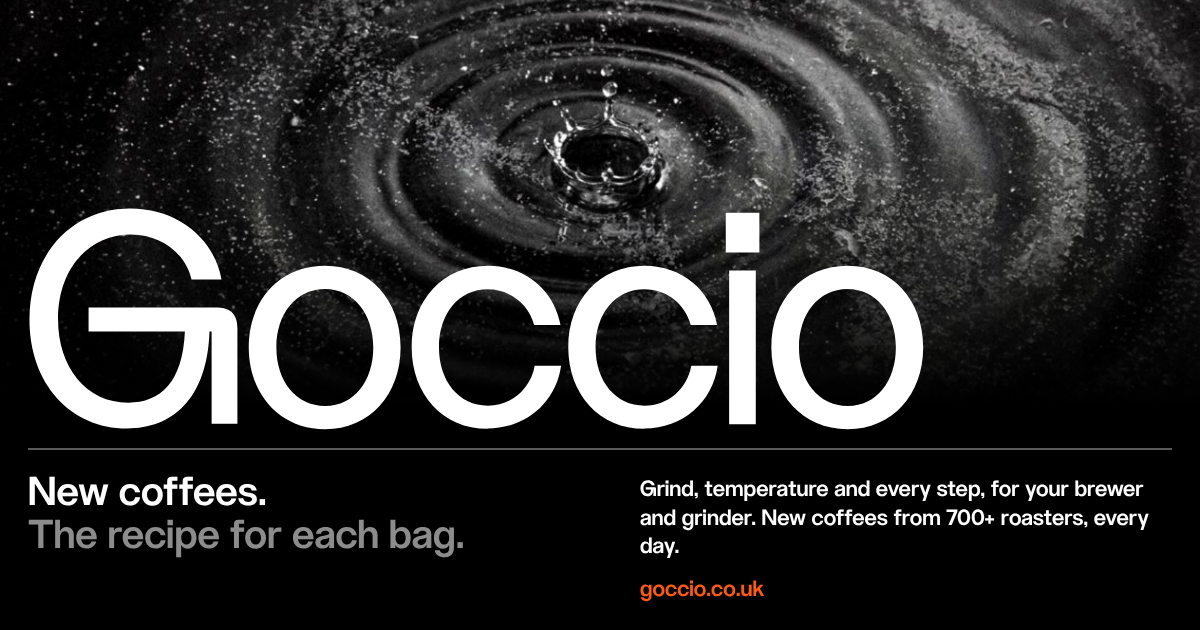
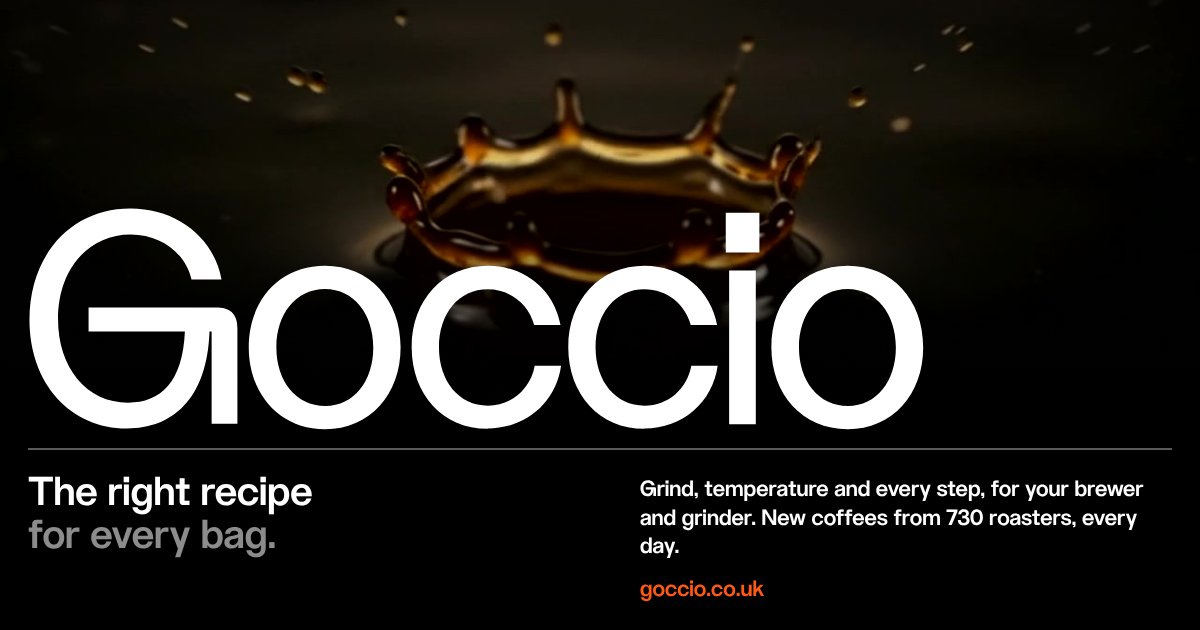
Share card and titles carry the new line (#1024)

diff --git a/design/og-card.html b/design/og-card.html
@@ -1,10 +1,10 @@
 <!DOCTYPE html><html><head><meta charset="utf-8"><style>
-/* the picture a link to Goccio shows when shared: render at 1200 x 630 into og/card-6.png (copied to og/card.png and og/card-5.png for older links) */
+/* the picture a link to Goccio shows when shared: render at 1200 x 630 into og/card-7.png (copied to og/card.png, og/card-5.png and og/card-6.png for older links) */
 @font-face{font-family:"ALT Riviera";src:url("../fonts/alt-medium.woff2") format("woff2");font-weight:100 900}
 @font-face{font-family:"ALT Riviera Regular";src:url("../fonts/alt-regular.woff2") format("woff2")}
 *{margin:0;box-sizing:border-box}
 body{width:1200px;height:630px;background:#000;color:#fff;font-family:"ALT Riviera",Helvetica,Arial,sans-serif;font-weight:500;position:relative;overflow:hidden}
-.ph{position:absolute;inset:0 0 auto 0;height:405px;background:url("../img/goccio-swirl.jpg") center 58%/cover no-repeat}
+.ph{position:absolute;inset:0 0 auto 0;height:405px;background:url("../img/goccio-crown.jpg") center 30%/cover no-repeat}
 .ph::after{content:"";position:absolute;inset:0;background:linear-gradient(to bottom,rgba(0,0,0,0) 45%,#000 100%)}
 .wm{position:absolute;left:22px;right:22px;top:198px;font-family:"ALT Riviera Regular";font-size:300px;line-height:.8;white-space:nowrap;letter-spacing:-.02em}
 .rule{position:absolute;left:28px;right:28px;top:448px;border-top:2px solid #595959}
@@ -15,6 +15,6 @@ body{width:1200px;height:630px;background:#000;color:#fff;font-family:"ALT Rivie
 <div class="ph"></div>
 <div class="wm">Goccio</div>
 <div class="rule"></div>
-<div class="l">New coffees.<i>The recipe for each bag.</i></div>
-<div class="r">Grind, temperature and every step, for your brewer and grinder. New coffees from 700+ roasters, every day.<div class="u">goccio.co.uk</div></div>
+<div class="l">The right recipe<i>for every bag.</i></div>
+<div class="r">Grind, temperature and every step, for your brewer and grinder. New coffees from 730 roasters, every day.<div class="u">goccio.co.uk</div></div>
 </body></html>

diff --git a/index.html b/index.html
@@ -38,14 +38,14 @@ if (/iP(hone|ad|od)/.test(navigator.userAgent) || (navigator.platform === "MacIn
 <meta property="og:site_name" content="Goccio">
 <meta property="og:title" content="Goccio, the right recipe for every bag">
 <meta property="og:description" content="New specialty coffees from hundreds of roasters, checked every day, each with the right recipe for your brewer: grind, ratio, temperature and every step.">
-<meta property="og:image" content="https://www.goccio.co.uk/og/card-6.png">
+<meta property="og:image" content="https://www.goccio.co.uk/og/card-7.png">
 <meta property="og:image:width" content="1200">
 <meta property="og:image:height" content="630">
-<meta property="og:image:alt" content="Goccio: an example recipe card with dose, water, temperature and the pour timeline">
+<meta property="og:image:alt" content="Goccio: the right recipe for every bag, over a drop of coffee">
 <meta name="twitter:card" content="summary_large_image">
 <meta name="twitter:title" content="Goccio, the right recipe for every bag">
 <meta name="twitter:description" content="New specialty coffees from hundreds of roasters, checked every day, each with the right recipe for your brewer: grind, ratio, temperature and every step.">
-<meta name="twitter:image" content="https://www.goccio.co.uk/og/card-6.png">
+<meta name="twitter:image" content="https://www.goccio.co.uk/og/card-7.png">
 <!-- home screen icon: a white G in ALT Riviera on black (iPhone rounds the corners itself) -->
 <link rel="apple-touch-icon" href="/icons/apple-touch-icon.png?v=3">
 <meta name="apple-mobile-web-app-title" content="Goccio">

diff --git a/list/index.html b/list/index.html
@@ -4,7 +4,7 @@
 <title>Get your roastery listed: Goccio</title>
 <meta name="description" content="List your roastery's coffees on Goccio for free: every new coffee in the daily list, a recipe for each one, and a page per coffee for search engines.">
 <link rel="canonical" href="https://www.goccio.co.uk/list/">
-<meta property="og:title" content="Get your roastery listed"><meta property="og:image" content="https://www.goccio.co.uk/og/card-6.png">
+<meta property="og:title" content="Get your roastery listed"><meta property="og:image" content="https://www.goccio.co.uk/og/card-7.png">
 <link rel="icon" type="image/png" sizes="32x32" href="/icons/favicon-32.png?v=3"><link rel="apple-touch-icon" href="/apple-touch-icon.png?v=3"><meta name="apple-mobile-web-app-title" content="Goccio">
 <style>
 :root{--bg:#fff;--ink:#000;--muted:#808080;--rule:#e3e3e3;--line:#a6a6a6;--pill:#e6e6e6;--hl:#ff4f00;

diff --git a/privacy/index.html b/privacy/index.html
@@ -4,7 +4,7 @@
 <title>Privacy: Goccio</title>
 <meta name="description" content="What Goccio keeps, and where: no accounts, no cookies, no tracking. Everything you save stays on your device.">
 <link rel="canonical" href="https://www.goccio.co.uk/privacy/">
-<meta property="og:title" content="Privacy"><meta property="og:image" content="https://www.goccio.co.uk/og/card-6.png">
+<meta property="og:title" content="Privacy"><meta property="og:image" content="https://www.goccio.co.uk/og/card-7.png">
 <link rel="icon" type="image/png" sizes="32x32" href="/icons/favicon-32.png?v=3"><link rel="apple-touch-icon" href="/apple-touch-icon.png?v=3"><meta name="apple-mobile-web-app-title" content="Goccio">
 <style>
 :root{--bg:#fff;--ink:#000;--muted:#808080;--rule:#e3e3e3;--line:#a6a6a6;--pill:#e6e6e6;--hl:#ff4f00;

diff --git a/scripts/pages.py b/scripts/pages.py
@@ -191,7 +191,7 @@ def page(title, desc, path, body, extra_head="", nav=True, tight=False):
 <link rel="canonical" href="{e(url)}">
 <meta property="og:type" content="website"><meta property="og:site_name" content="Goccio">
 <meta property="og:title" content="{e(title)}"><meta property="og:description" content="{e(desc)}">
-<meta property="og:url" content="{e(url)}"><meta property="og:image" content="{BASE}/og/card-6.png">
+<meta property="og:url" content="{e(url)}"><meta property="og:image" content="{BASE}/og/card-7.png">
 <meta name="twitter:card" content="summary_large_image">
 <link rel="icon" type="image/png" sizes="32x32" href="/icons/favicon-32.png?v=3"><link rel="apple-touch-icon" href="/apple-touch-icon.png?v=3"><meta name="apple-mobile-web-app-title" content="Goccio">
 <style>{CSS}</style>{extra_head}
@@ -293,7 +293,7 @@ def main():
                             + go + "</section>")
                 steps = [{"@type": "HowToStep", "text": f'{mmss(p["t"])}: pour to {p["to"]} g. {p["note"]}'.strip()} for p in r["pours"] if p.get("to") is not None]
                 ld = json.dumps({"@context": "https://schema.org", "@type": "Recipe", "name": f"V60 recipe for {c['name']} ({name})",
-                                 "description": f"A V60 pour over recipe for {c['name']} from {name}.", "image": [BASE + "/og/card-6.png"],
+                                 "description": f"A V60 pour over recipe for {c['name']} from {name}.", "image": [BASE + "/og/card-7.png"],
                                  "author": {"@type": "Organization", "name": "Goccio", "url": BASE + "/"},
                                  "recipeCategory": "Drink", "recipeYield": "1 cup", "totalTime": iso_dur(r["hi"]), "keywords": f"V60, pour over, {name}, {c.get('origin') or ''}".strip(", "),
                                  "recipeIngredient": [f'{r["dose"]} g {c["name"]} coffee, ground at {r["clicks"]} clicks on a {GRINDER}', f'{r["water"]} g water at {r["temp"]}°C'],
